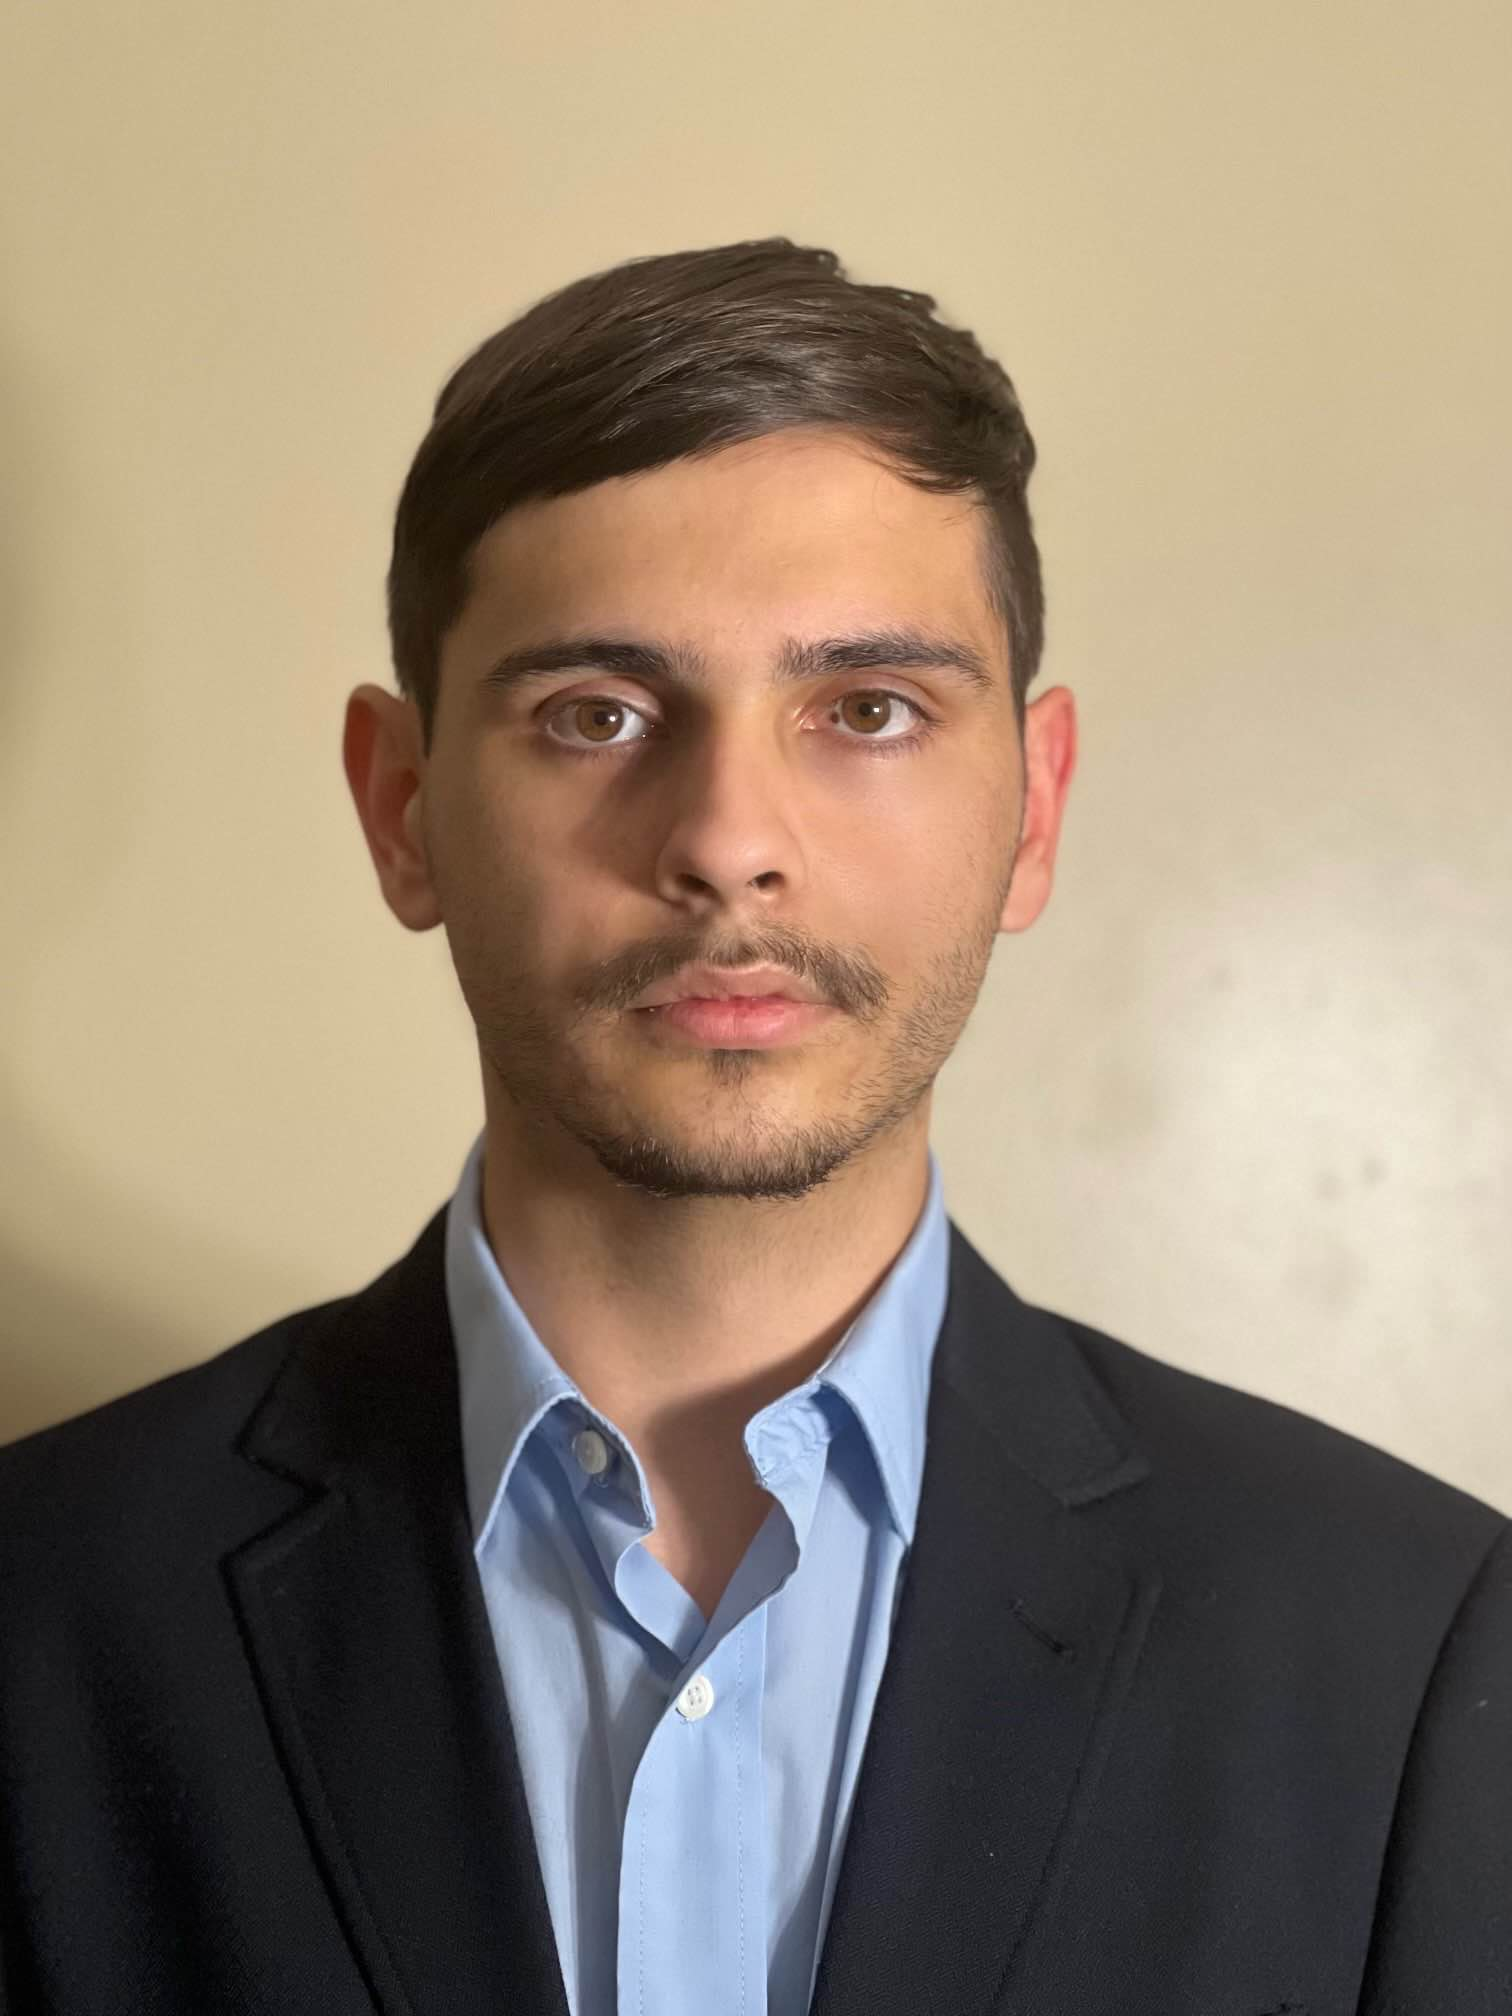
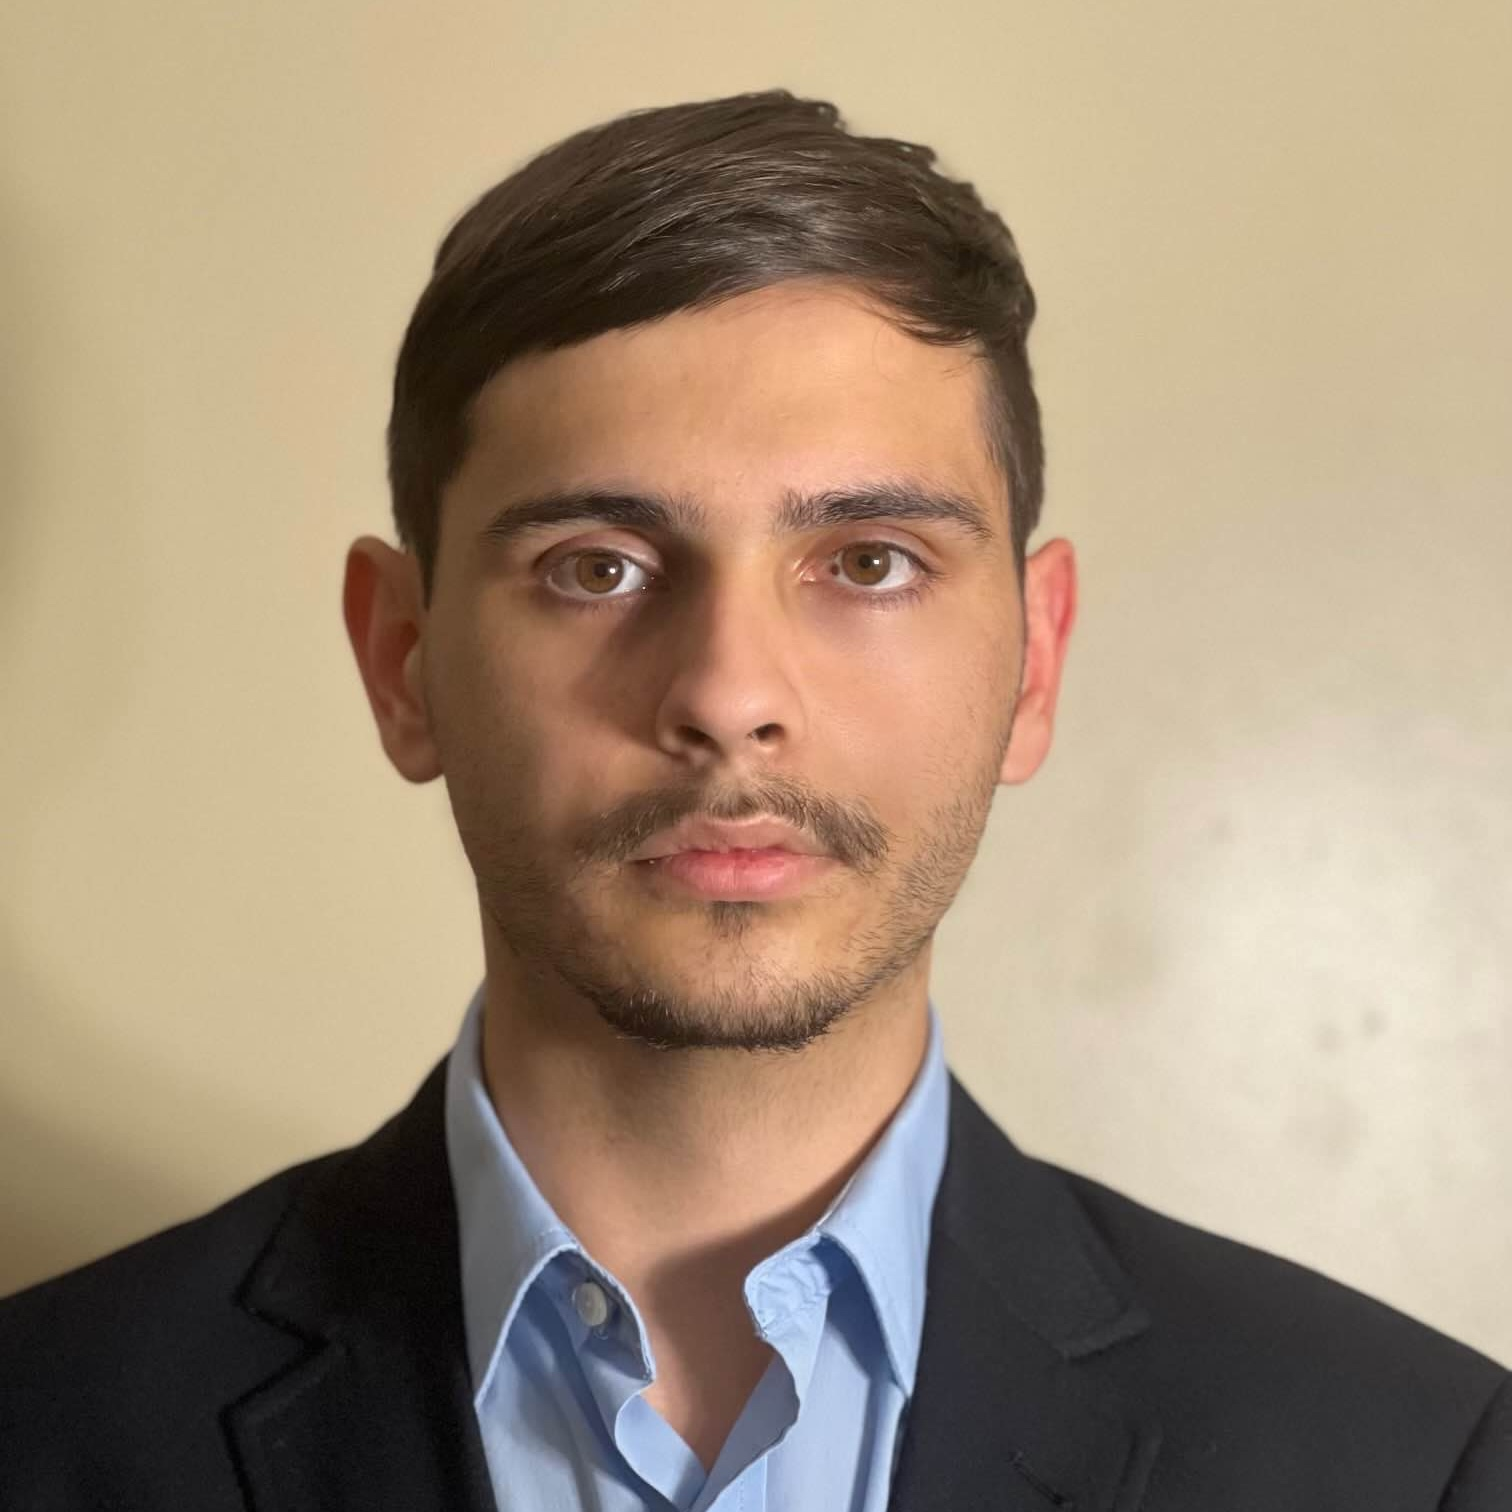
Hopefully this works!

diff --git a/CS-HTML/Templates/about.html b/CS-HTML/Templates/about.html
@@ -25,12 +25,43 @@
             </nav>
             <hr>
         </div>
-        <h1>ABOUT</h1>
         <div>
-            <div class="Adam"></div>
-            <div class="Jake"></div>
-            <div class="Owen"></div>
+
         </div>
+        <ul class="bios">
+            <li class="Adam">
+                <img class="headshot" src="/Images/AdamPic.png" alt="Picture of Adam Kerns">
+                <p>Hey all! My name is Adam Kerns and
+                    I am a senior studying Math and Computer Science with a concentration in AI, Robotics, and Gaming at UNCC. I love working on projects like this, a small team where there is more creative freedom, as well as larger groups for projects! This has been a very enjoyable project to work on with my team!</p>
+                <a href="https://www.linkedin.com/in/adam-kerns-adam" target="_blank"><img class="linkedin" src="/Images/linkedin.svg" alt="linkedin"></a>
+            </li>
+            <li class="Jake">
+                <img class="headshot" src="/Images/JakePic.jpg" alt="Picture of Jake Gilbert">
+                <p>Hello! My name is James Gilbert 
+                    and I am a senior studying Computer 
+                    Science with a concentration in 
+                    Systems and Networks at UNCC.  
+                    I have done data engineering, game 
+                    development, software engineering, 
+                    and work with servers. I'm excited to 
+                    show you our latest project, CareerSift! 
+                    I hope you all enjoy our software!</p>
+                <a href="https://www.linkedin.com/in/james-gilbert-2a79b1265/" target="_blank"><img class="linkedin" src="/Images/linkedin.svg" alt="linkedin"></a>
+            </li>
+            <li class="Owen">
+                <img class="headshot" src="/Images/OwenPic.jpeg" alt="Picture of Owen Hartzell">
+                <p>Hi, my name is Owen Hartzell and 
+                    I am a senior studying Computer 
+                    Science with a concentration in 
+                    Cybersecurty at UNCC. I joined the 
+                    CareerSift team in the fall of 2024 
+                    with my fellow co-founders. Together 
+                    we have applied concepts of software 
+                    engineering and product development 
+                    to bring you CareerSift!</p>
+                <a href="https://www.linkedin.com/in/owen-hartzell-08208427a/" target="_blank"><img class="linkedin" src="/Images/linkedin.svg" alt="linkedin"></a>
+            </li>
+        </ul>
     </body>
 </html>
 

diff --git a/CS-HTML/styles.css b/CS-HTML/styles.css
@@ -1,5 +1,3 @@
-/* do something with .contact-chip */
-
 @font-face {
     font-family: 'Inter';
     font-style: italic;
@@ -72,7 +70,6 @@ hr {
 
 body {
     background-color: var(--bler);
-    height: 1000px; /*change this*/
     font-family: var(--font);
     font-weight: 300;
 }
@@ -233,15 +230,6 @@ body {
     background-color: #058900;
 }
 
-.login p a, .register p a {
-    color: #007BFF;
-    text-decoration: none;
-}
-
-.login p a:hover, .register p a:hover {
-    text-decoration: underline;
-}
-
 .hidden {
     display: none !important;
 }
@@ -346,4 +334,50 @@ input[type=checkbox] {
 
 input[type=range] {
     margin-left: 17.5%;
+}
+
+.bios {
+    list-style: none;
+    padding: 0;
+    display: flex; 
+    flex-direction: row; 
+    justify-content: center;  
+}
+
+.bios li {
+    display: flex; 
+    flex-direction: column; 
+    align-items: center;
+    text-align: center; 
+    border: 2px solid transparent; 
+    padding: 30px; 
+    width: 350px; 
+    position: relative;
+}
+
+.bios li:not(:last-child) {
+    border-right: 3px solid var(--bluer-bler);
+    border-radius: 4px;
+}
+
+.bios li:not(:last-child) {
+    padding-right: 20px;
+}
+
+.headshot {
+    width: 100%; 
+    height: auto; 
+    margin-bottom: 20px; 
+}
+
+.linkedin {
+    height: 30px;
+    width: 30px;
+    cursor: pointer;
+}
+
+.bios li p {
+    margin: 0; 
+    line-height: 1.5; 
+    font-size: 14px; 
 }
